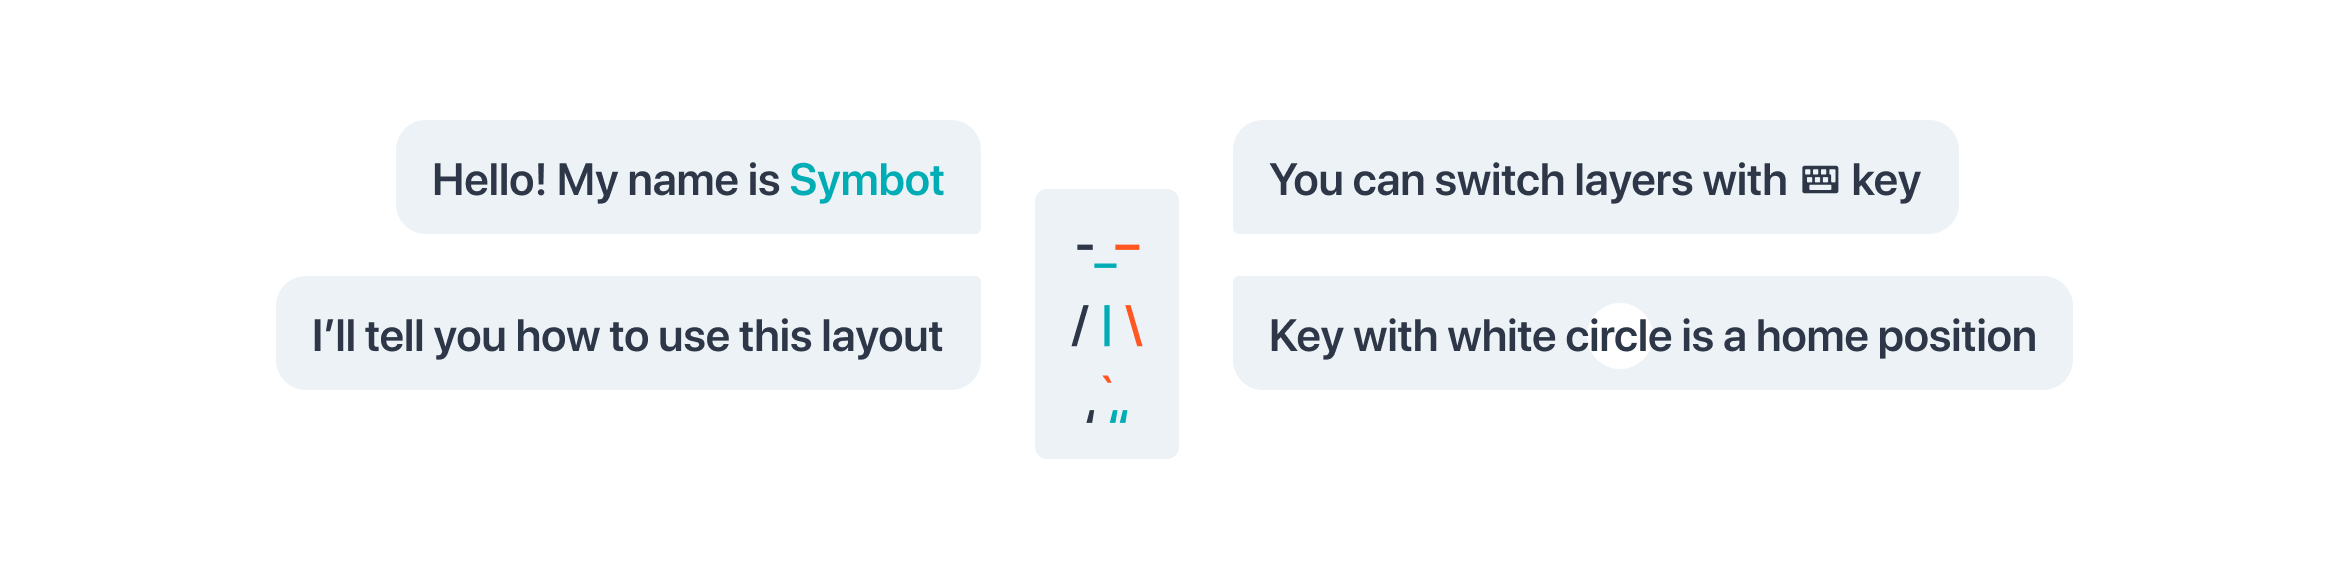
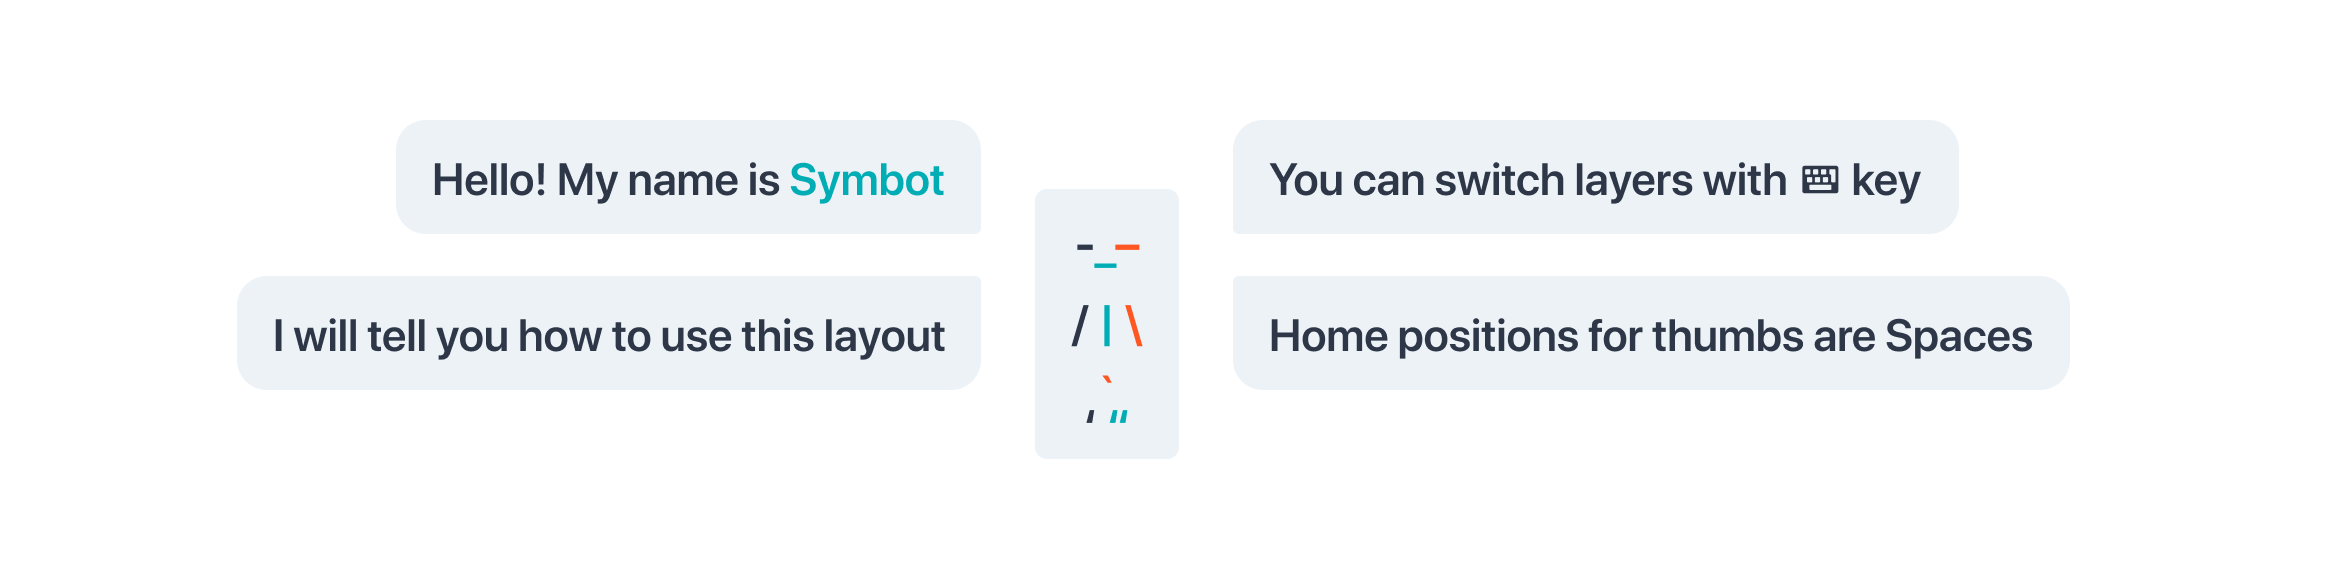
fix typos, images and other

Changed region(s): [[0.5258, 0.5596, 0.8969, 0.6218], [0.1237, 0.5596, 0.4021, 0.6218]]

diff --git a/README.md b/README.md
@@ -2,17 +2,26 @@
 
 ![XD75RE Keyboard](images/Keyboard.JPG)
 
-Universal layout I designed and use on my [XD75RE](https://kprepublic.com/products/xd75re-xd75am-xd75-xiudi-60-custom-keyboard-pcb) ortholinear mechanical keyboard.
-The main purpose of this layout is logical positioning of similar symbols altogether.
+Keyboard layout for [XD75RE](https://kprepublic.com/products/xd75re-xd75am-xd75-xiudi-60-custom-keyboard-pcb) ortholinear mechanical keyboard.
+
+I had been using [Universal Layout](https://github.com/braindefender/universal-layout) for years now 
+and wanted to push the limit of my keyboard experience with ortholinear XD75RE.
+
+The main purpose of Universal Layout was logical arrangement of similar symbols (e.g. <kbd>'</kbd>, <kbd>"</kbd>, <kbd>\`</kbd>) in one place
+and preserving positions of symbols in both English and Russian layouts.
+
+In this layout I combined the main advantages of Universal Layout and spice it up with new features like vim arrows, numpad-switching and media controls.
+
+You will be guided through this article by the mascot of Universal Layout — Symbot!
 
 ![Symbot](images/Mascot.png)
 
-##### Key differences from traditional layout:
+**Key differences from traditional layout:**
 
-- Keyboard is split on three parts with Numpad/Arrow block in center.
-- All common quotes are placed in one key. Same with slashes and dashes.
-- Keys with `, ;` and `. :` are placed separately, right next to `Space` key for each hand.
-- Numeric row has been swapped with symbols: to type number use `Shift` + symbol, i.e. `Shift` + `@` = `2`.
+- Keyboard split into three parts with Numpad/Arrow block in center.
+- Keys with <kbd>,;</kbd> and <kbd>.:</kbd> are placed separately from both sides of <kbd>Space</kbd>.
+- All common symbols are gathered in one key. Such as quotes, slashes and dashes.
+- Numeric row has been swapped with symbols: to type number use <kbd>Shift</kbd> + symbol, e.g. <kbd>Shift</kbd> + <kbd>@</kbd> = <kbd>2</kbd>.
 
 ## Layer One
 
@@ -23,6 +32,7 @@ The main purpose of this layout is logical positioning of similar symbols altoge
 
 This layer are similar to Layer One, but Numpad is placed on Fn Layer. 
 Quotes and slashes are moved closer to the center of keyboard.
+I personally like vim arrows and media shortcuts in the Fn Layer. 
 
 ![Layer Two](images/LayerTwo.png)
 ![Functional Layer Two](images/FnLayerTwo.png)
@@ -35,15 +45,25 @@ Keys that combine similar symbols (like quotes and slashes) are also powered by 
 
 ![Alternative Layer](images/AltLayer.png)
 
-- 🇷🇺 : Символы `Ё`, `Щ` и `Ъ` помещены на Alt Layer и практически не вызывают проблем в наборе.
-- 🇷🇺 : С помощью этого слоя всегда можно ввести символы `[`, `]`, `{` и `}`. 
+**🇷🇺 For Russian layout users:**
+
+- Символы <kbd>Ё</kbd>, <kbd>Щ</kbd> и <kbd>Ъ</kbd> помещены на Alt Layer и практически не вызывают проблем в наборе.  
+- С помощью этого слоя всегда можно ввести символы <kbd>[</kbd>, <kbd>]</kbd>, <kbd>{</kbd> и <kbd>}</kbd>. 
 
 ## Installation
 
 1. Copy `.dll` from `sources` folder to `C:/Windows/System 32`.
-2. Then run `.reg` files and reboot the system (or logout / login).
+2. Run `.reg` files and reboot the system (or logout / login).
 3. Select layout in `Preferences / Language and Region / Language`.
-4. [Optional] Rename `HKLM\SYSTEM\CurrentControlSet\Control\Keyboard Layouts` registry entry named `00000409` and `00000419` with something else to prevent Windows 10 from suddenly change layout (Win 10 bug).
+
+## Known issues
+
+For some reason Windows 10 occasionally changes layout back to default English or Russian layout.
+
+To prevent this behaviour you could rename `HKLM\SYSTEM\CurrentControlSet\Control\Keyboard Layouts` 
+registry entry named `00000409` and `00000419` to something else (e.g `00000409` → `00000409-off`).
+
+But it is a temporary fix and may break keyboard behaviour in some applications. Full impact is unknown and not tested by me.
 
 ## Tools
 
@@ -51,7 +71,4 @@ Keys that combine similar symbols (like quotes and slashes) are also powered by 
 - Firmware: [QMK Configurator](https://config.qmk.fm/#/xd75/LAYOUT_ortho_5x15) to create and [QMK Toolbox](https://github.com/qmk/qmk_toolbox) to flash firmware.
 
 
-I personally like vim arrows and media shortcuts in Fn Layer. 
-`Print Screen` is also very useful for my workflow. 
-Take a look at [Flameshot](https://github.com/flameshot-org/flameshot) — it's very good.
 
